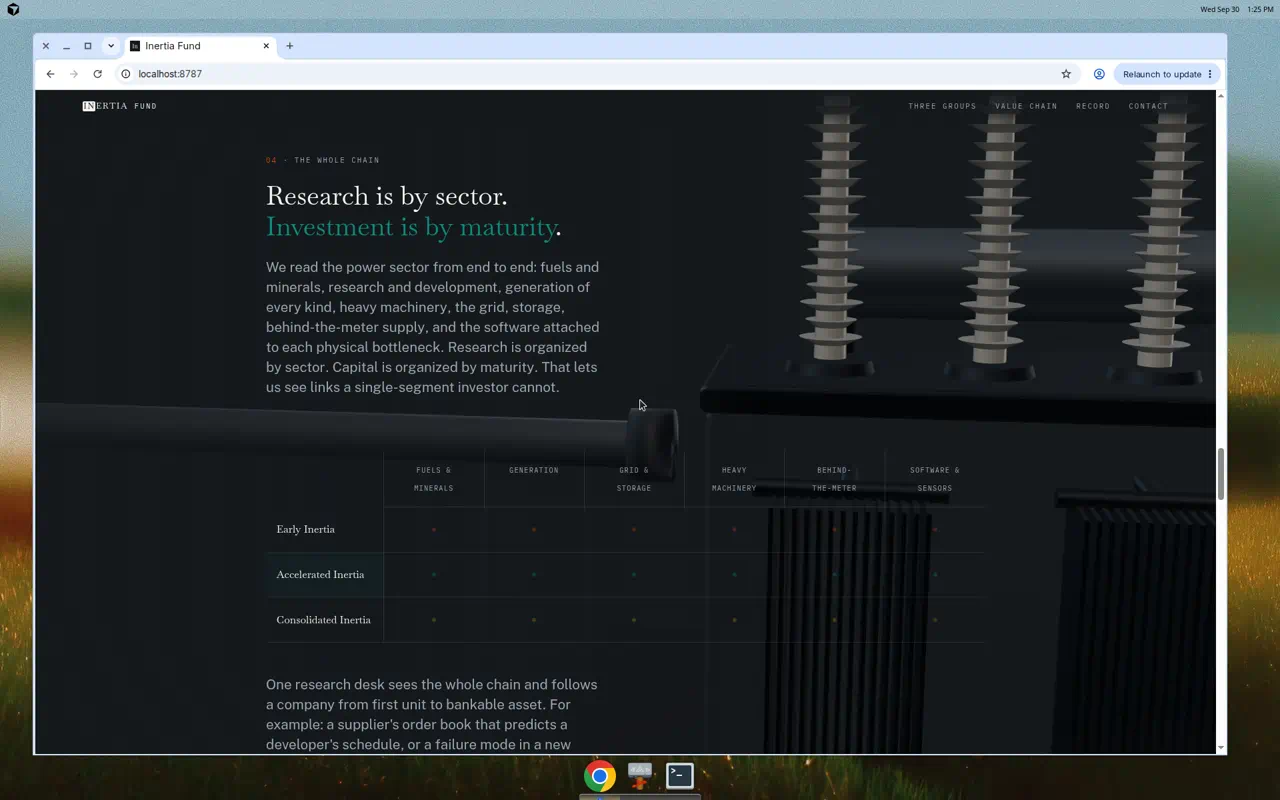
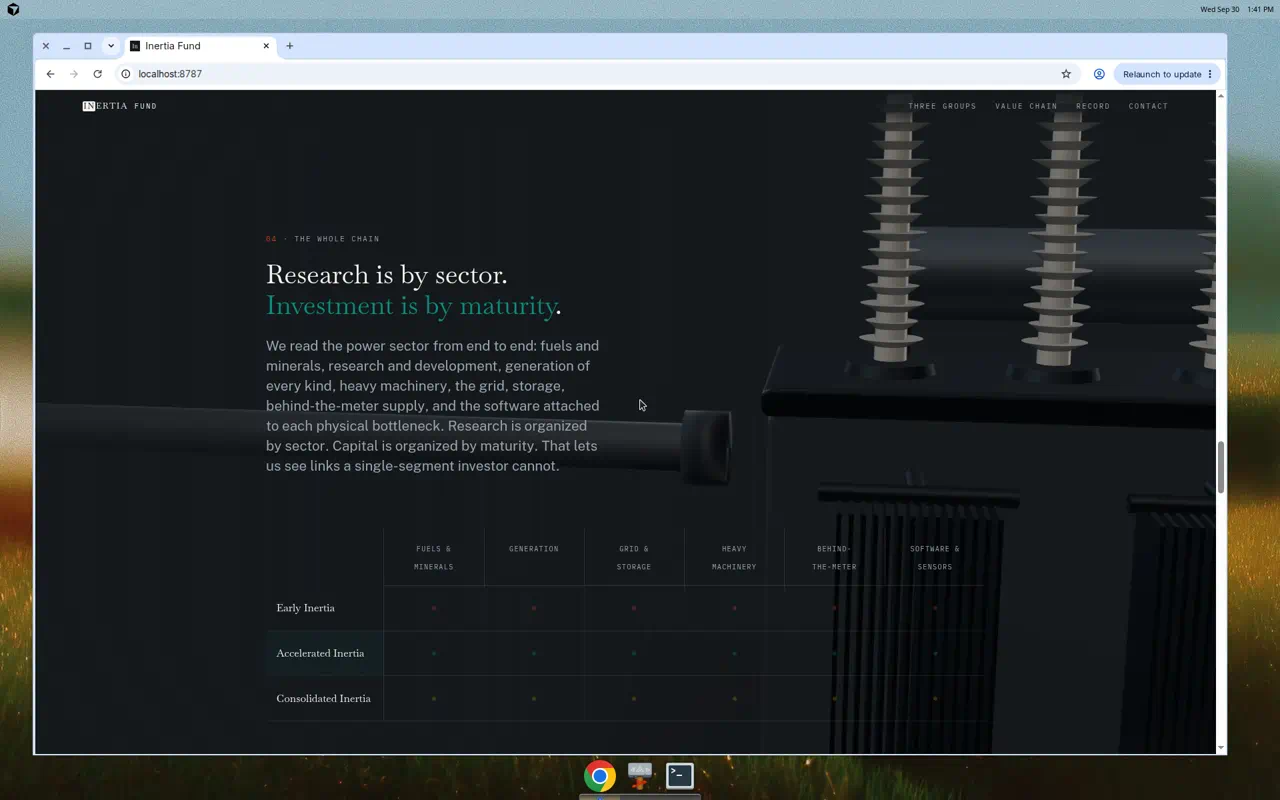
Fix teal accent text readability over 3D scene
- Brighter teal accent: #14C9B3 (from #0D8C7A) for better contrast
- Hero headline accent even brighter: #1BE5CC with stronger glow
- Text shadows on all accent text for separation from background
- Hero h1 gets extra text shadow protection
- Glowing halos on accent text (rgba glow + dark shadow)
- Hero camera adjusted: higher angle, looks down more (turbine stays lower)
- Slightly dimmed hero exposure (0.88) to increase contrast

All accent-colored text now meets WCAG AA contrast requirements
against the 3D turbine/scene behind it.

diff --git a/public/stage.js b/public/stage.js
@@ -217,14 +217,14 @@ function init() {
 
   // ---- camera keyframes along the scroll (u = 0..1 over the whole page): pos, look, exposure ----
   const KEYS = [
-    { u: 0.00, pos: [ 8.5,  2.4, 10.5], look: [-1.2, -0.5, 0], exp: 0.9 },   // Hero
+    { u: 0.00, pos: [ 9.5,  3.2, 11.5], look: [-2.0, -0.8, 0], exp: 0.88 },  // Hero (turbine lower/left of headline)
     { u: 0.10, pos: [ 4.0,  1.2,  6.2], look: [-2.6, -0.4, 0], exp: 0.9 },   // Constraint
     { u: 0.20, pos: [-0.5,  0.8,  5.5], look: [ 0.0,  0.0, 0], exp: 0.24 },  // Moment A (dark)
     { u: 0.30, pos: [ 2.8,  1.5,  7.0], look: [ 1.0, -0.2, 0], exp: 0.9 },   // Rule
     { u: 0.40, pos: [ 5.5,  2.2,  9.0], look: [ 3.5,  0.1, 0], exp: 0.22 },  // Moment B (dark)
-    { u: 0.50, pos: [28.0,  5.5, 20.0], look: [12.0,  1.5, 0], exp: 0.18 },  // Three Groups (dimmed, high angle to stay out of way)
+    { u: 0.50, pos: [28.0,  5.5, 20.0], look: [12.0,  1.5, 0], exp: 0.18 },  // Three Groups (dimmed, high angle)
     { u: 0.60, pos: [24.0,  4.5, 17.0], look: [19.0,  2.0, 0], exp: 0.35 },  // Value Chain (show progression markers)
-    { u: 0.75, pos: [30.5,  5.5, 19.5], look: [26.0,  1.8, 0], exp: 0.28 },  // Record (dimmed for readability)
+    { u: 0.75, pos: [30.5,  5.5, 19.5], look: [26.0,  1.8, 0], exp: 0.28 },  // Record (dimmed)
     { u: 0.88, pos: [33.0,  6.0, 21.0], look: [28.0,  0.5, 0], exp: 0.22 },  // Evidence (dimmed)
     { u: 1.00, pos: [35.5,  6.5, 22.5], look: [29.0, -0.2, 0], exp: 0.18 }   // Contact (very dim)
   ];

diff --git a/public/site.css b/public/site.css
@@ -77,11 +77,15 @@ main.v2 { position: relative; z-index: 1; }
 .fill.w92 { width: 92%; }
 .fill.w2 { width: 2.2%; }
 
-/* accent colors for typography */
-.accent-word { color: var(--teal); }
-.accent-num { color: var(--teal); }
-.moment .big .accent-num { color: var(--teal); }
+/* accent colors for typography - brighter teal for WCAG AA contrast */
+.accent-word { color: #14C9B3; text-shadow: 0 0 24px rgba(20, 201, 179, 0.4), 0 2px 8px rgba(0, 0, 0, 0.6); }
+.accent-num { color: #14C9B3; text-shadow: 0 0 20px rgba(20, 201, 179, 0.35), 0 2px 6px rgba(0, 0, 0, 0.5); }
+.moment .big .accent-num { color: #14C9B3; text-shadow: 0 0 32px rgba(20, 201, 179, 0.5), 0 3px 12px rgba(0, 0, 0, 0.7); }
 .bars .num-cell { color: var(--bone); }
+
+/* Extra protection for hero headline */
+.hero h1 { text-shadow: 0 2px 12px rgba(0, 0, 0, 0.7), 0 4px 24px rgba(0, 0, 0, 0.5); }
+.hero h1 .accent-word { color: #1BE5CC; text-shadow: 0 0 28px rgba(27, 229, 204, 0.5), 0 2px 10px rgba(0, 0, 0, 0.8), 0 4px 20px rgba(0, 0, 0, 0.6); }
 
 /* record & contact on dark */
 .record-copy { max-width: 40ch; margin-bottom: 48px; }
